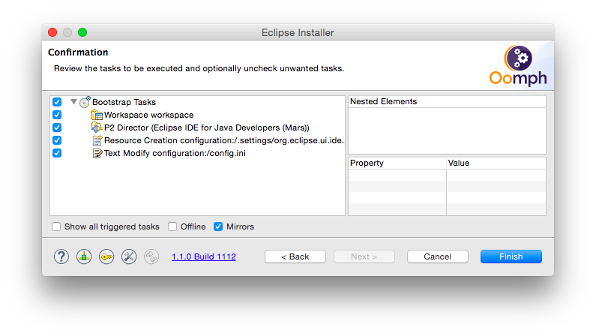
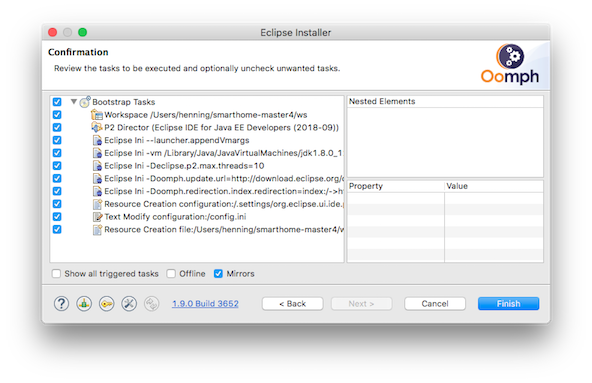
Update IDE setup images
Closes #6225.

Changed region(s): [[0.0608, 0.0595, 0.9426, 0.625], [0.0608, 0.6548, 0.9426, 0.8631], [0.7297, 0.4464, 0.7905, 0.6548]]

diff --git a/docs/documentation/development/ide.md b/docs/documentation/development/ide.md
@@ -13,25 +13,38 @@ Please ensure that you have the following prerequisites installed on your machin
 1. [Oracle JDK 8](http://www.oracle.com/technetwork/java/javase/downloads/jdk8-downloads-2133151.html)
 1. [Python >=2.5](https://www.python.org/downloads/) (to build UIs with npm)
 
-The Eclipse IDE is used for Eclipse SmartHome developments. The Eclipse Installer automatically prepares the IDE so that it comes with all required plug-ins, the correct workspace encoding settings, pre-configured code formatters and more. Simply follow these steps:
+The Eclipse IDE is used for Eclipse SmartHome developments.
+The Eclipse Installer automatically prepares the IDE so that it comes with all required plug-ins, the correct workspace encoding settings, pre-configured code formatters and more.
+Simply follow these steps:
 
 1. Download the [Eclipse Installer](https://wiki.eclipse.org/Eclipse_Installer)
+
 2. Launch the Eclipse Installer and switch to „Advanced Mode“ in the top right menu:
 ![Step 0](images/ide0.png)
+
 3. Choose the "Eclipse IDE for Java Developers" and select "Next":
 ![Step 1](images/ide1.png)
+
 4. Expand the "SmartHome" entry, double click "Runtime" and select "Next":
 ![Step 2](images/ide2.png)
+
 5. Now provide an installation folder and your Github id (used to push your changesets to) and select "Next":
 ![Step 3](images/ide3.png)
+
 6. The installation will now begin when pressing "Finish".
 ![Step 4](images/ide4.png)
-7. Once it is done, you will see the Eclipse Welcome Screen, which you can close by clicking "Workbench" on the top right. You will see that the installer not only set up an Eclipse IDE instance for you, but also checked out the Eclipse SmartHome git repository and imported all projects into the workspace. Don't worry that you still see error markers at that point, this will be addressed in the next steps.
+
+7. Once it is done, you will see the Eclipse Welcome Screen, which you can close by clicking "Workbench" on the top right.
+You will see that the installer not only set up an Eclipse IDE instance for you, but also checked out the Eclipse SmartHome git repository and imported all projects into the workspace.
+Don't worry that you still see error markers at that point, this will be addressed in the next steps.
 ![Step 5](images/ide5.png)
+
 8. Wait until all automatic tasks have been finished (see status field bottom left). After that select "Help->Perform Setup Tasks..." from the menu and click "Finish":
 ![Step 6](images/ide6.png)
+
 9. Your workspace should now fully compile and you can start the runtime by launching the "SmartHome Runtime" launch configuration:
 ![Step 8](images/ide8.png)
+
 10. Note: The Paper UI and Basic UI have been built by "Perform Setup Tasks...". It could be necessary to repeat that step after code has been changed. Access the Paper UI at [http://localhost:8080/paperui/index.html](http://localhost:8080/paperui/index.html). For more information about Paper UI see [Paper UI Development](notes.html#paperui-development-jshtml). 
 
 Note that you will find the sources in a subfolder called "git" within your selected installation folder. You can use any kind of git client here, if you do not want to use the git support from within the Eclipse IDE.
